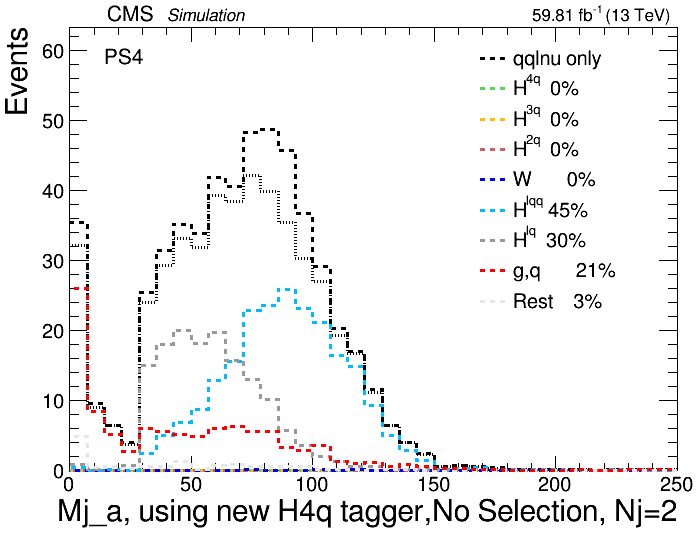
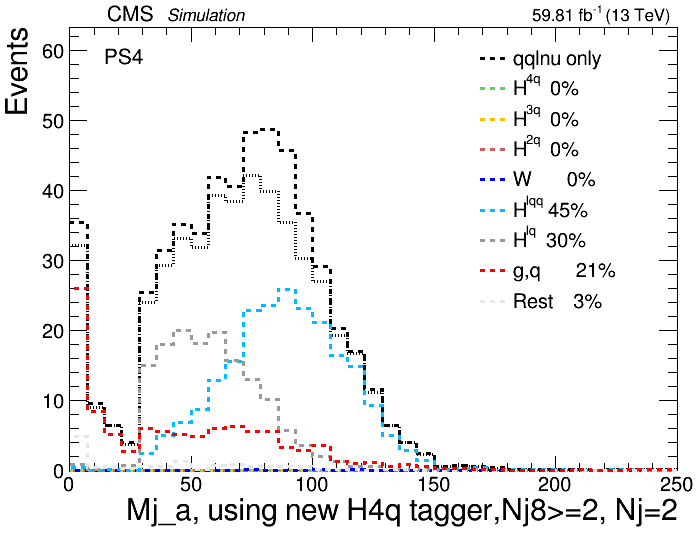
Add Nj8

Changed region(s): [[0.0602, 0.9168, 0.9628, 0.976]]

diff --git a/Makeplots_HWW_Nj2_OverData.py b/Makeplots_HWW_Nj2_OverData.py
@@ -179,8 +179,8 @@ class ANALYSIS:
             #self.construct_plot(Nj, "JetMass_Nj2_c"    ,selection          ,"",tag  ,50, 0 ,60,"Mj_c, Nj=2"                        ,"Events" ,logy,CR);             
             #self.construct_plot(Nj, "JetMass_Nj2_a"    ,selection          ,"",tag  ,50, 0 ,250,"Mj_a, Nj=2"                        ,"Events" ,logy,CR);             
             #self.construct_plot(Nj, "JetMass_Nj2_c"    ,selection          ,"",tag  ,50, 0 ,250,"Mj_c, Nj=2"                        ,"Events" ,logy,CR);             
-            self.construct_plot(Nj, "JetMass_Nj2_a_new"    ,selection          ,"",tag  ,35, 0 ,250,"Mj_a, using new H4q tagger,No Selection, Nj=2"                        ,"Events" ,logy,CR);             
-            self.construct_plot(Nj, "JetMass_Nj2_c_new"    ,selection          ,"",tag  ,35, 0 ,250,"Mj_c, using new H4q tagger,No Selection, Nj=2"                        ,"Events" ,logy,CR);             
+            self.construct_plot(Nj, "JetMass_Nj2_a_new"    ,selection          ,"",tag  ,35, 0 ,250,"Mj_a, using new H4q tagger,Nj8>=2, Nj=2"                        ,"Events" ,logy,CR);             
+            self.construct_plot(Nj, "JetMass_Nj2_c_new"    ,selection          ,"",tag  ,35, 0 ,250,"Mj_c, using new H4q tagger,Nj8>=2, Nj=2"                        ,"Events" ,logy,CR);             
             #self.construct_plot(Nj, "MET_pt/Pt_Nj2_a_new"    ,selection          ,"",tag  ,20, 0 ,1,"MET/PT_Higgs, using new H4q tagger order,Nj=2"                        ,"Events" ,logy,CR);  
             #self.construct_plot(Nj, "MET_pt/(Pt_Nj2_a_new+Pt_Nj2_c_new)**0.5"    ,selection          ,"",tag  ,20, 0 ,10,"MET Significance"                        ,"Events" ,logy,CR);  
                                  
@@ -342,7 +342,8 @@ class ANALYSIS:
         #----------------- paths to root files -------------------
         #if options.y=="16"      :path="/eos/cms/store/user/.........;  lumi=36.3;
         #if options.y=="17"      :path="/eos/user/y/yusong/qilong/NTuple_Output/17/all/Tree/mu";  lumi= 41.5;
-        if options.y=="18"      :path="/eos/user/y/yuzhe/HWW/frame/Custom/Tree/NoSelection/";  lumi=59.81;
+        #if options.y=="18"      :path="/eos/user/y/yuzhe/HWW/frame/Custom/Tree/NoSelection/";  lumi=59.81;
+        if options.y=="18"      :path="/eos/user/y/yuzhe/HWW/frame/Custom/Tree/NjAbove2/";  lumi=59.81;
         #if options.y=="16,17,18":path="/eos/cms/store/user/.........;  lumi=138;
 
         #====== DEFINE CANVAS ==========================
@@ -365,7 +366,8 @@ class ANALYSIS:
         # t_Signal1 = TChain("NewTree");  t_Signal1.Add(path+ "NewTagger_Nj2_2q.root");  h_Signal1=TH1D("h_Signal1","h_Signal1"+";%s;%s"%(xtitle,ytitle),nbin,min,max);  h_Signal1.Sumw2();
         #t_Signal1 = TChain("NewTree");  t_Signal1.Add(path+ "NewTagger_Nj2_2q.root");  h_Signal1=TH1D("h_Signal1","h_Signal1"+";%s;%s"%(xtitle,ytitle),nbin,min,max);  h_Signal1.Sumw2();
         #t_Signal1 = TChain("NewTree");  t_Signal1.Add(path+ "NewTagger_Nj2_2q_Mode.root");  h_Signal1=TH1D("h_Signal1","h_Signal1"+";%s;%s"%(xtitle,ytitle),nbin,min,max);  h_Signal1.Sumw2();
-        t_Signal1 = TChain("NewTree");  t_Signal1.Add(path+ "2q_NoSelection.root");  h_Signal1=TH1D("h_Signal1","h_Signal1"+";%s;%s"%(xtitle,ytitle),nbin,min,max);  h_Signal1.Sumw2();
+        #t_Signal1 = TChain("NewTree");  t_Signal1.Add(path+ "2q_NoSelection.root");  h_Signal1=TH1D("h_Signal1","h_Signal1"+";%s;%s"%(xtitle,ytitle),nbin,min,max);  h_Signal1.Sumw2();
+        t_Signal1 = TChain("NewTree");  t_Signal1.Add(path+ "2q_AddNj8.root");  h_Signal1=TH1D("h_Signal1","h_Signal1"+";%s;%s"%(xtitle,ytitle),nbin,min,max);  h_Signal1.Sumw2();
         
         # t_Signal1 = TChain("NewTree");  t_Signal1.Add(path+"Signal/HWW2q_PS.root");  h_Signal1=TH1D("h_Signal1","h_Signal1"+";%s;%s"%(xtitle,ytitle),nbin,min,max);  h_Signal1.Sumw2();
         t_Signal2 = TChain("NewTree"); t_Signal2.Add(path + "NewTagger_Nj2_4q.root"); h_Signal2 = TH1D("h_Signal2", "h_Signal2" + ";%s;%s" % (xtitle, ytitle), nbin, min, max); h_Signal2.Sumw2();
